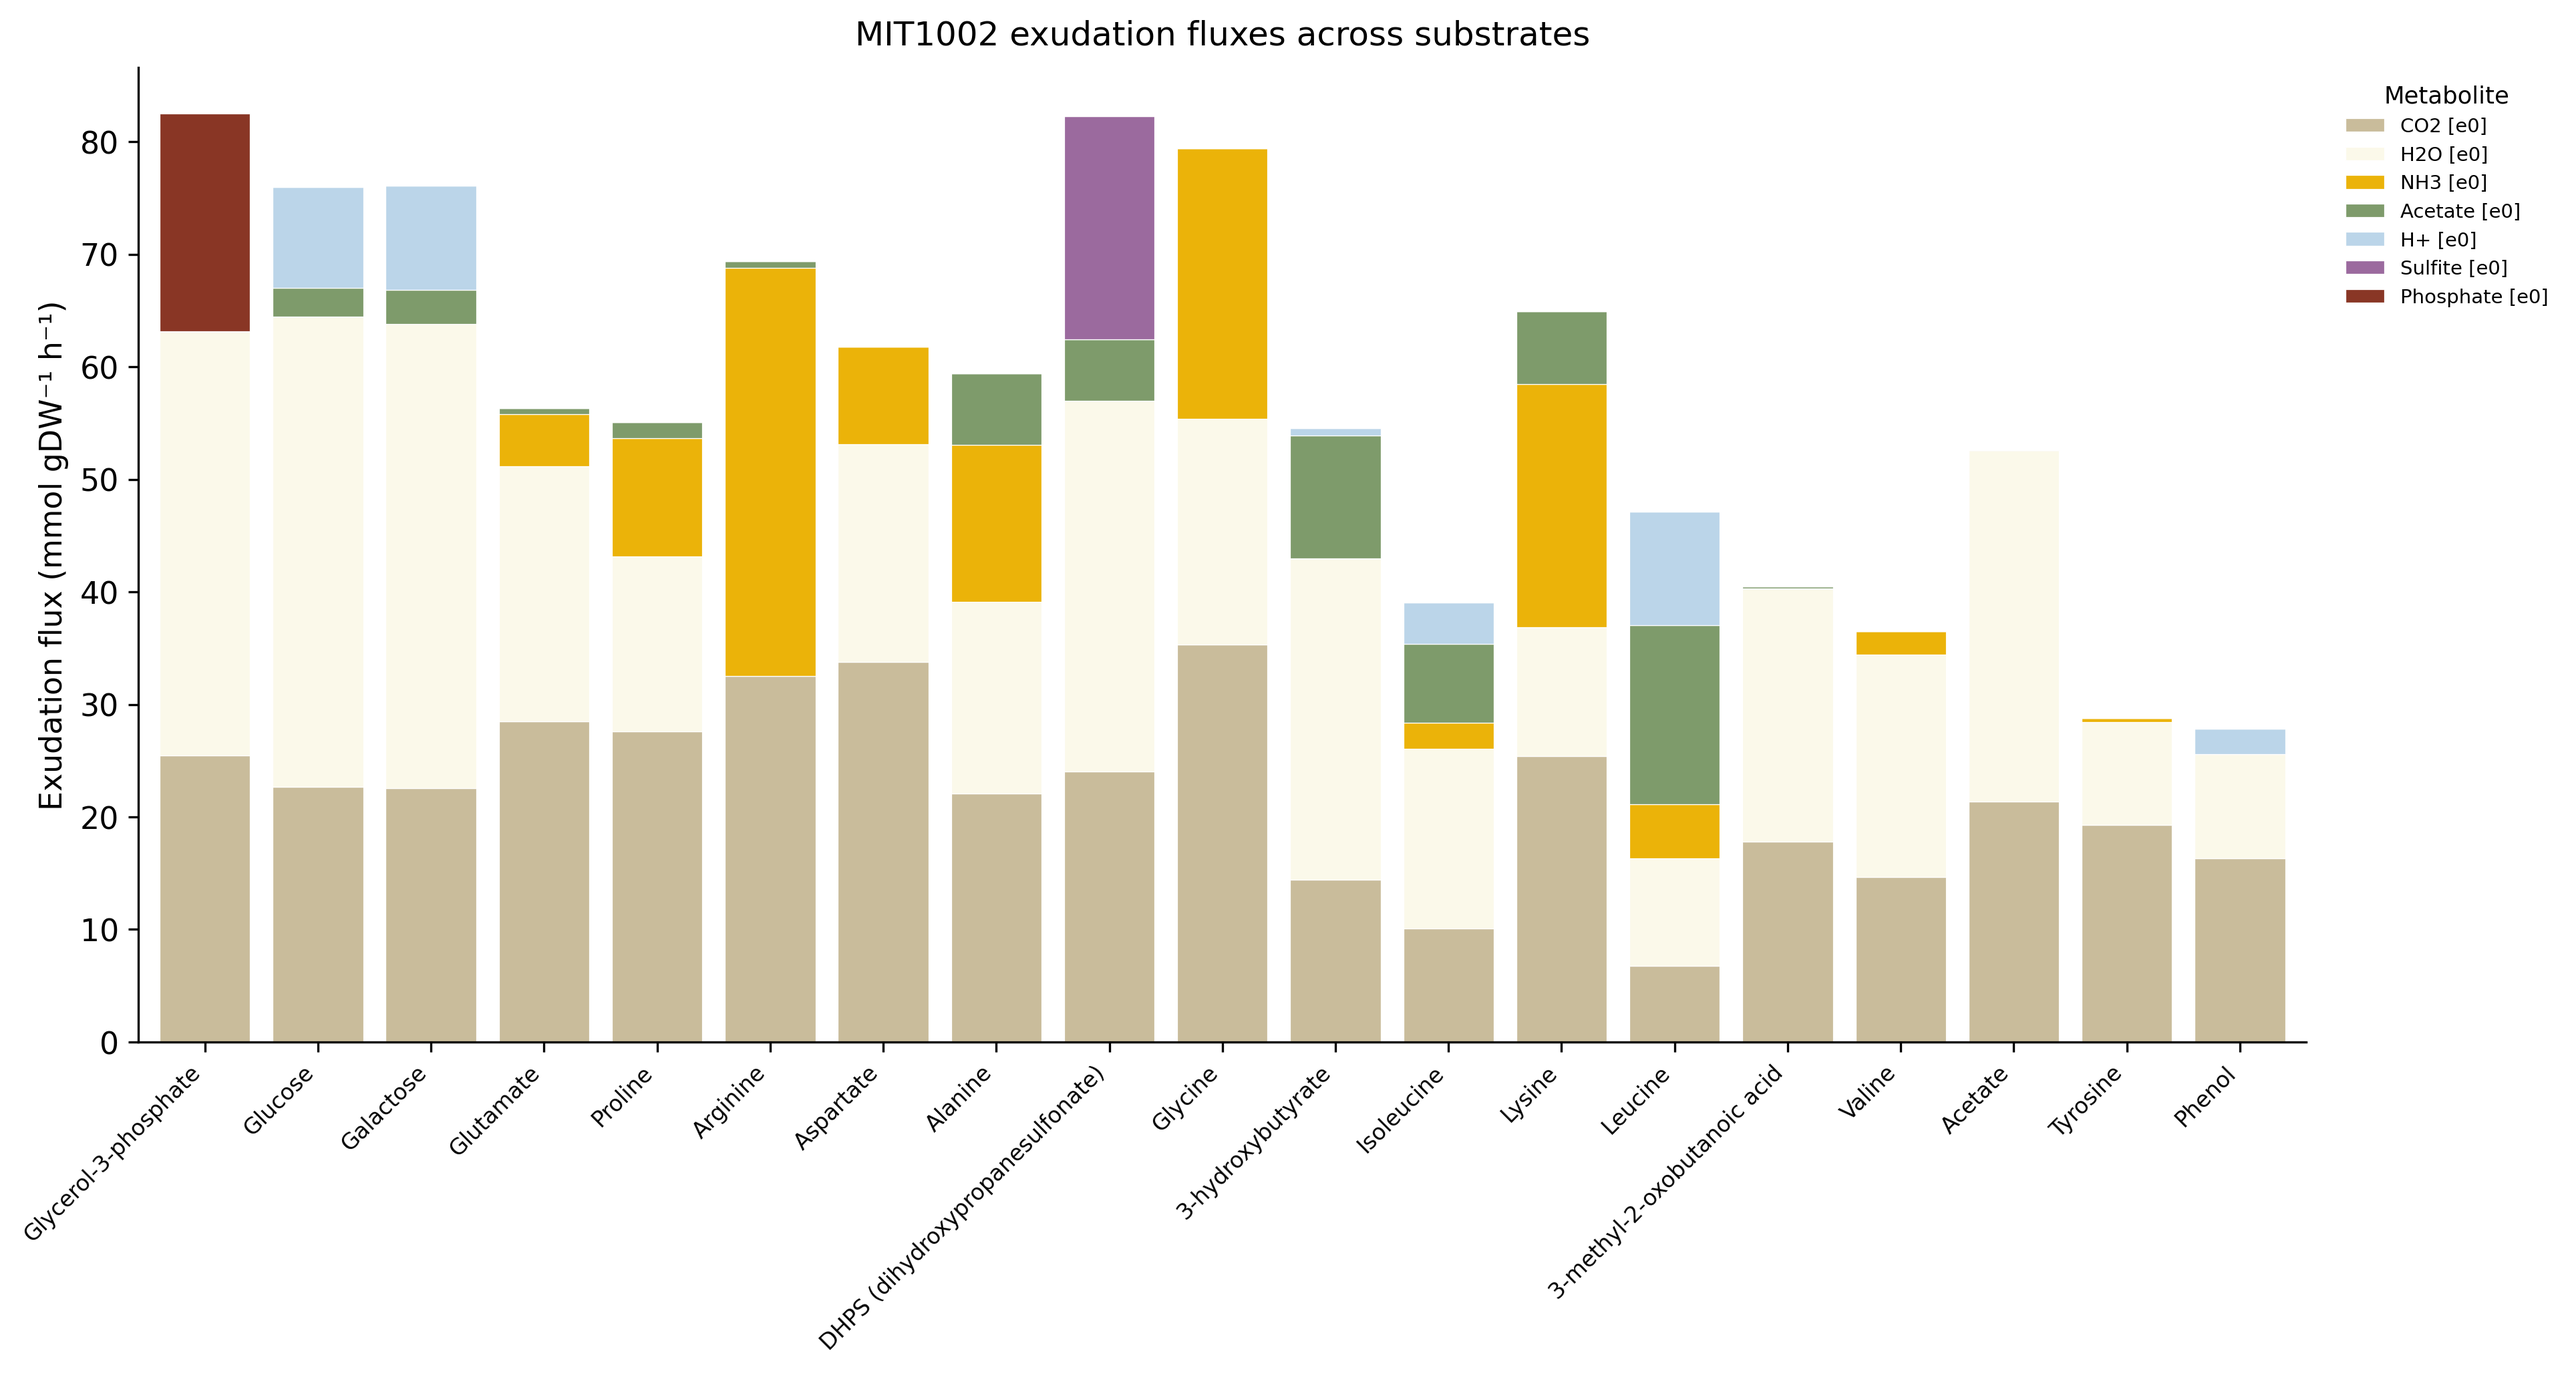
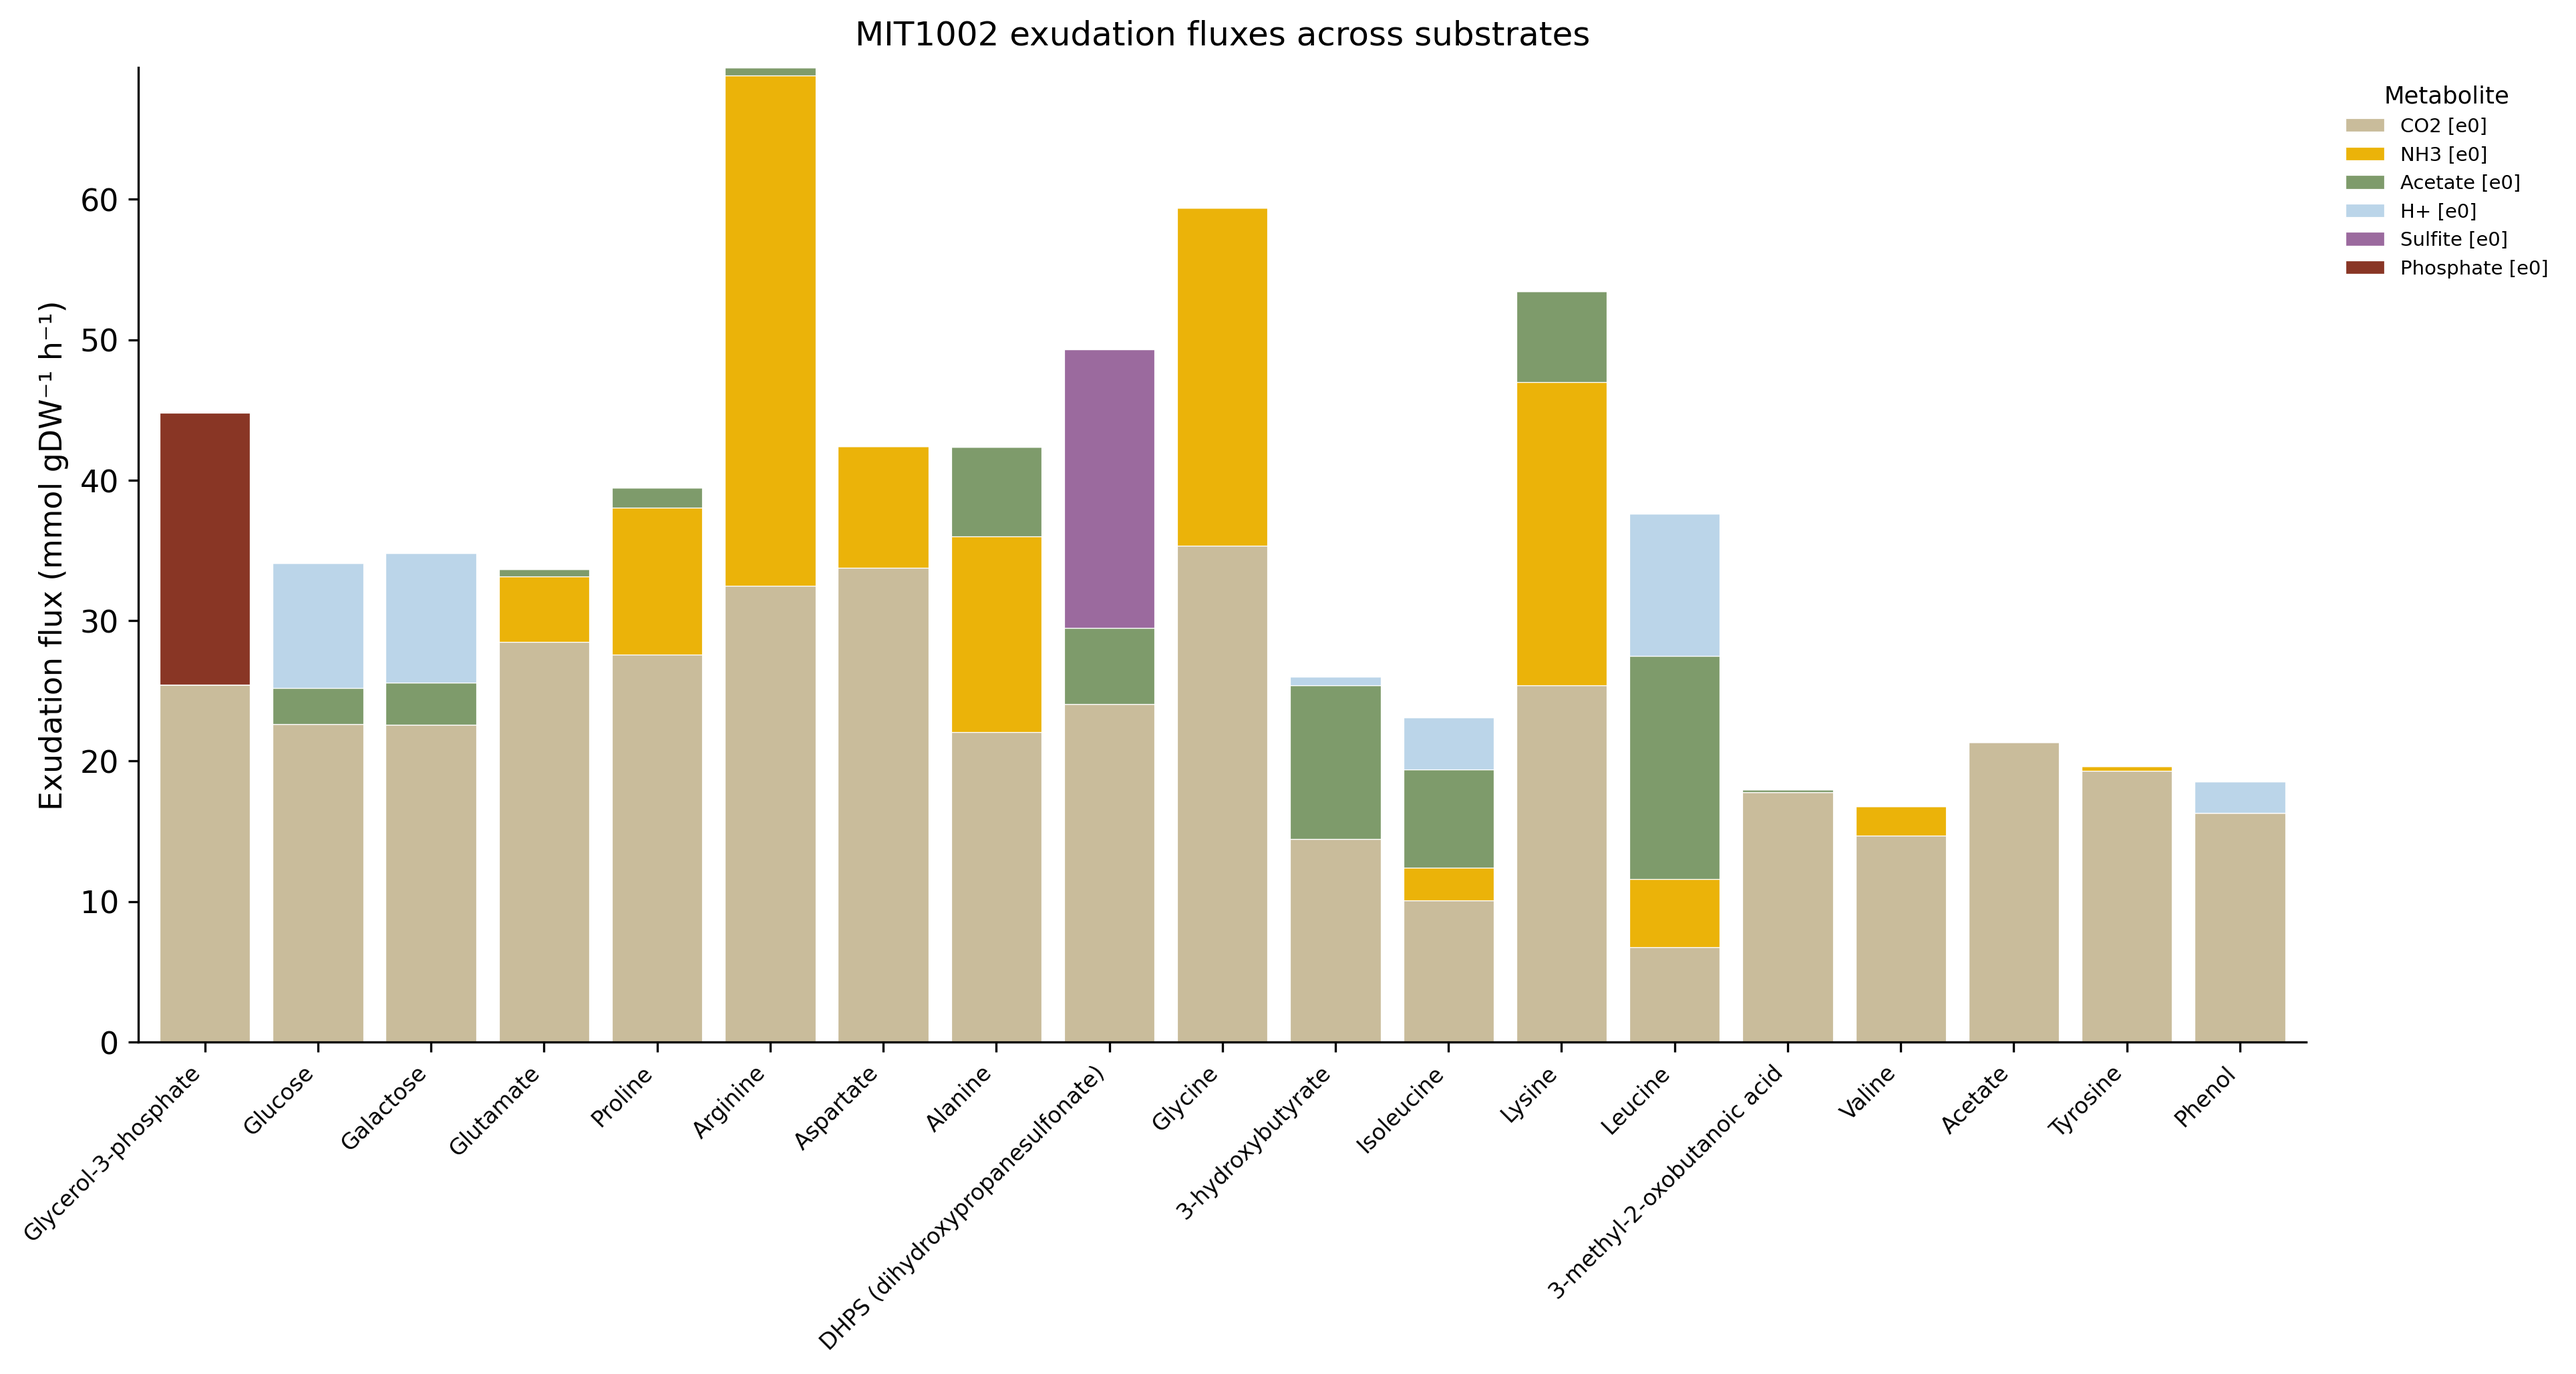
feat: don't show H2O on the exudation chart

diff --git a/simulations/growth_and_cue/run_growth_cue.py b/simulations/growth_and_cue/run_growth_cue.py
@@ -493,6 +493,9 @@ def plot_exchange_stacks(ex_df, carbon_source_names, out_dir):
     exud = exud.loc[:, (exud != 0).any(axis=0)]
     uptake = _merge_carbon_sources(uptake, carbon_source_names)
 
+    # Drop H2O from the exudation chart
+    exud = exud.drop(columns=["H2O [e0]"], errors="ignore")
+
     # Shared colour map over the "regular" metabolites (everything except the
     # fixed-colour Carbon source / Other), ordered by total magnitude so shared
     # metabolites get the same colour in both charts.
